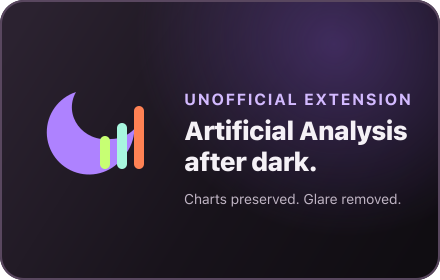
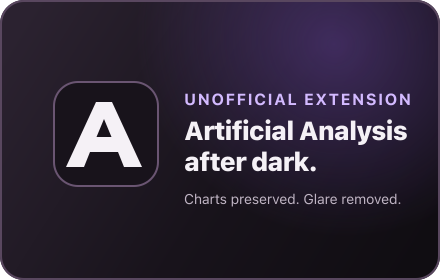
Add literal A store branding and screenshots

diff --git a/store-assets/README.md b/store-assets/README.md
@@ -1,5 +1,5 @@
 # Store assets
 
-`npm run assets` creates the 440×280 promotional tile and extension icons from original SVG artwork.
+`npm run assets` creates the upload-ready 128×128 store icon, the 440×280 promotional tile, and packaged extension icons from original SVG artwork.
 
 `npm run test:e2e` captures three current 1280×800 screenshots from the live site with the real packaged extension loaded. Review every screenshot before submission; they intentionally are not frozen test baselines because Artificial Analysis data changes frequently.

diff --git a/STORE_LISTING.md b/STORE_LISTING.md
@@ -54,7 +54,7 @@ No user data is collected or used.
 
 ## Graphic assets
 
-- Store icon: `generated-assets/icons/icon-128.png`
+- Store icon: `store-assets/icon-128.png`
 - Small promotional tile: `store-assets/promo-tile-440x280.png`
 - Screenshots: `store-assets/screenshots/*-1280x800.png`
 
